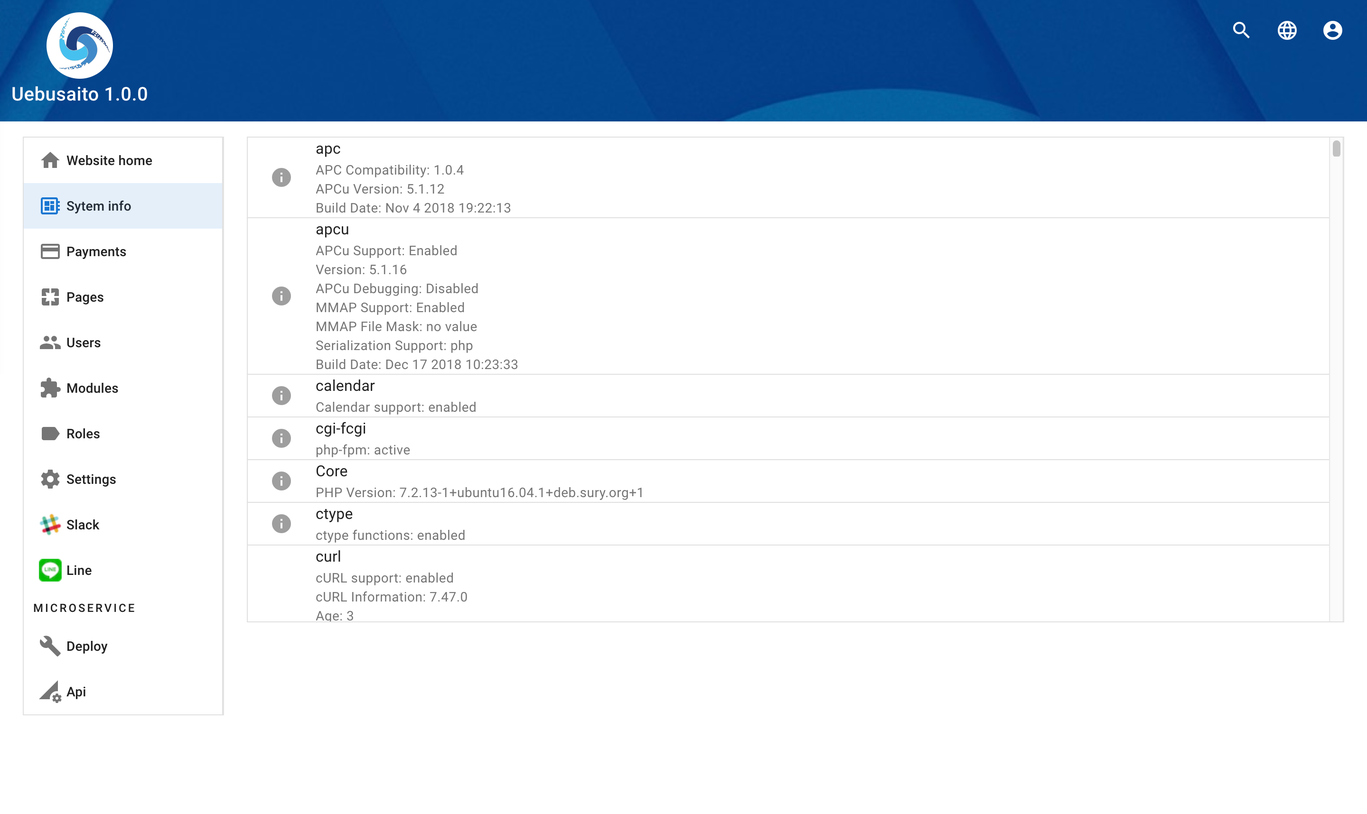
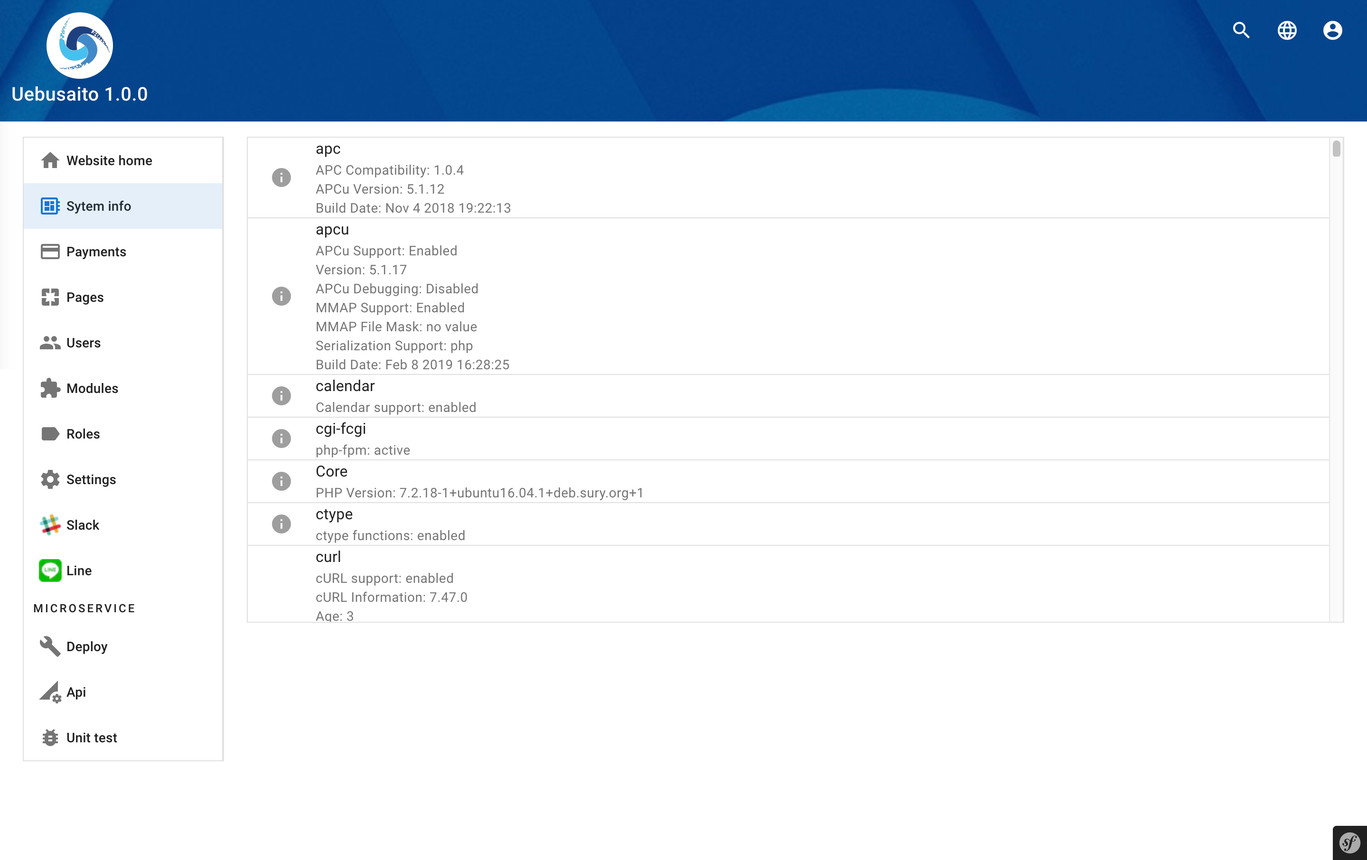
Multi tab logic and small fix.

diff --git a/symfony_fw/public/javascript/system/Utility.min.js b/symfony_fw/public/javascript/system/Utility.min.js
@@ -1,1 +1,1 @@
-var utility=new Utility;function Utility(){var p,e=this;function o(e,t){var n="";$.each($(e).find(".sort_elemet_data"),function(e,t){n+=$(t).attr("data-id")+","}),$(t).val(n)}e.getTouchMove=function(){return p},e.init=function(){p=!1},e.linkPreventDefault=function(){$("a[href^='#']").on("click","",function(e){e.preventDefault()})},e.mutationObserver=function(t,e,n){new MutationObserver(function(e){e.forEach(function(e){-1!==$.inArray(e.type,t)&&n()})}).observe(e,{attributes:!0,childList:!0,subtree:!0,characterData:!0})},e.checkMobile=function(e){var t,l,n=!1,i=navigator.userAgent.toLowerCase();return(/(android|ipad|iphone|bb\d+|meego).+mobile|avantgo|bada\/|blackberry|blazer|compal|elaine|fennec|hiptop|iemobile|ip(hone|od)|iris|kindle|lge |maemo|midp|mmp|mobile.+firefox|netfront|opera m(ob|in)i|palm( os)?|phone|p(ixi|re)\/|plucker|pocket|psp|series(4|6)0|symbian|treo|up\.(browser|link)|vodafone|wap|windows ce|xda|xiino/i.test(i)||/1207|6310|6590|3gso|4thp|50[1-6]i|770s|802s|a wa|abac|ac(er|oo|s\-)|ai(ko|rn)|al(av|ca|co)|amoi|an(ex|ny|yw)|aptu|ar(ch|go)|as(te|us)|attw|au(di|\-m|r |s )|avan|be(ck|ll|nq)|bi(lb|rd)|bl(ac|az)|br(e|v)w|bumb|bw\-(n|u)|c55\/|capi|ccwa|cdm\-|cell|chtm|cldc|cmd\-|co(mp|nd)|craw|da(it|ll|ng)|dbte|dc\-s|devi|dica|dmob|do(c|p)o|ds(12|\-d)|el(49|ai)|em(l2|ul)|er(ic|k0)|esl8|ez([4-7]0|os|wa|ze)|fetc|fly(\-|_)|g1 u|g560|gene|gf\-5|g\-mo|go(\.w|od)|gr(ad|un)|haie|hcit|hd\-(m|p|t)|hei\-|hi(pt|ta)|hp( i|ip)|hs\-c|ht(c(\-| |_|a|g|p|s|t)|tp)|hu(aw|tc)|i\-(20|go|ma)|i230|iac( |\-|\/)|ibro|idea|ig01|ikom|im1k|inno|ipaq|iris|ja(t|v)a|jbro|jemu|jigs|kddi|keji|kgt( |\/)|klon|kpt |kwc\-|kyo(c|k)|le(no|xi)|lg( g|\/(k|l|u)|50|54|\-[a-w])|libw|lynx|m1\-w|m3ga|m50\/|ma(te|ui|xo)|mc(01|21|ca)|m\-cr|me(rc|ri)|mi(o8|oa|ts)|mmef|mo(01|02|bi|de|do|t(\-| |o|v)|zz)|mt(50|p1|v )|mwbp|mywa|n10[0-2]|n20[2-3]|n30(0|2)|n50(0|2|5)|n7(0(0|1)|10)|ne((c|m)\-|on|tf|wf|wg|wt)|nok(6|i)|nzph|o2im|op(ti|wv)|oran|owg1|p800|pan(a|d|t)|pdxg|pg(13|\-([1-8]|c))|phil|pire|pl(ay|uc)|pn\-2|po(ck|rt|se)|prox|psio|pt\-g|qa\-a|qc(07|12|21|32|60|\-[2-7]|i\-)|qtek|r380|r600|raks|rim9|ro(ve|zo)|s55\/|sa(ge|ma|mm|ms|ny|va)|sc(01|h\-|oo|p\-)|sdk\/|se(c(\-|0|1)|47|mc|nd|ri)|sgh\-|shar|sie(\-|m)|sk\-0|sl(45|id)|sm(al|ar|b3|it|t5)|so(ft|ny)|sp(01|h\-|v\-|v )|sy(01|mb)|t2(18|50)|t6(00|10|18)|ta(gt|lk)|tcl\-|tdg\-|tel(i|m)|tim\-|t\-mo|to(pl|sh)|ts(70|m\-|m3|m5)|tx\-9|up(\.b|g1|si)|utst|v400|v750|veri|vi(rg|te)|vk(40|5[0-3]|\-v)|vm40|voda|vulc|vx(52|53|60|61|70|80|81|83|85|98)|w3c(\-| )|webc|whit|wi(g |nc|nw)|wmlb|wonu|x700|yas\-|your|zeto|zte\-/i.test(i.substr(0,4)))&&(n=!0)===e&&(t={min:{x:20,y:20},left:$.noop,right:$.noop,up:$.noop,down:$.noop},l="ontouchend"in document,$.fn.swipe=function(d){return d=$.extend({},t,d),this.each(function(){var a,r,t=$(this),c=!1;function s(){t.off("mousemove.swipe touchmove.swipe",n),a=null,c=!1}function n(e){if(c&&void 0!==e.touches){var t=l?e.touches[0].pageX:e.pageX,n=l?e.touches[0].pageY:e.pageY,i=a-t,o=r-n;Math.abs(i)>=(d.min.x||d.min)?(p=!0,s(),0<i?d.left():d.right()):Math.abs(o)>=(d.min.y||d.min)&&(p=!0,s(),0<o?d.up():d.down())}}p=!1,t.on("mousedown touchstart",function(e){e.preventDefault(),void 0!==e.touches&&(a=l?e.touches[0].pageX:e.pageX,r=l?e.touches[0].pageY:e.pageY,c=!0,t.on("mousemove.swipe touchmove.swipe",n))}),t.on("mouseup touchend",function(e){void 0!==e.touches&&(p=!1)})})}),n},e.checkWidthType=function(e){var t=void 0===e?window.setting.widthMobile:e;return!0===window.matchMedia("(max-width: "+t+"px)").matches?"mobile":"desktop"},e.postIframe=function(e,t,n){var i="iframe_commands_"+(new Date).getTime();$("<iframe>",{id:i,name:i,style:"display: none;"}).appendTo("body");var o="form_commands_"+ +(new Date).getTime();$("<form>",{id:o,target:i,action:e,method:t}).appendTo("body"),$.each(n,function(e,t){$("<input>",{type:"hidden",name:e,value:t}).appendTo("#"+o)}),$("#"+o).submit()},e.urlParameters=function(e){var t=window.location.href,n=t.indexOf("/"+e+"/"),i=t.substring(n,t.length).split("/");return i.shift(),i},e.removeElementAndResetIndex=function(e,t){return e.length=Object.keys(e).length,e.splice=[].splice,e.splice(t,1),delete e.length,delete e.splice,e},e.objectToArray=function(e){return $.map(e,function(e){return e})},e.isIntoView=function(e){if(0===$(e).length)return!1;var t={top:$(window).scrollTop(),left:$(window).scrollLeft()};t.right=t.left+$(window).width(),t.bottom=t.top+$(window).height();var n=$(e).offset();return n.right=n.left+$(e).outerWidth(),n.bottom=n.top+$(e).outerHeight(),!(t.right<n.left||t.left>n.right||t.bottom<n.top||t.top>n.bottom)},e.sortableElement=function(n,i){o(n,i),"desktop"===e.checkWidthType()?($(".sort_result").find(".mdc-chip").removeClass("mdc-chip--selected"),$(".sort_result").off("click"),$(n).find(".sort_list").sortable({placeholder:"sortable_placeholder",forcePlaceholderSize:!0,tolerance:"pointer",handle:".material-icons",cancel:".no_sortable",start:function(e,t){t.placeholder.height(t.item.height())},stop:function(e,t){t.placeholder.height(0),o(n,i)}}).disableSelection()):($(n).find(".sort_list").data("ui-sortable")&&$(n).find(".sort_list").sortable("destroy"),$(".sort_result").off("click").on("click",".mdc-chip",function(e){var t=!0===$(e.target).parent().hasClass("mdc-chip")?$(e.target).parent():$(e.target);if(!0===t.hasClass("mdc-chip")){if(!0===t.hasClass("mdc-chip--selected"))return void t.removeClass("mdc-chip--selected");$(".sort_result").find(".mdc-chip").removeClass("mdc-chip--selected"),!0===t.hasClass("mdc-chip--selected")?t.removeClass("mdc-chip--selected"):t.addClass("mdc-chip--selected")}}),$(n).find(".sort_control").find(".mdc-button").off("click").on("click","",function(e){var t=$(n).find(".sort_list .mdc-chip--selected");!0===$(e.target).find("i").hasClass("button_up")?t.parent().insertBefore(t.parent().prev()):!0===$(e.target).find("i").hasClass("button_down")&&t.parent().insertAfter(t.parent().next()),o(n,i)}))},e.wordTag=function(t,n){if(void 0!==$(n).val()){var i=$(n).val().split(",");i.pop();var o="";$.each(i,function(e,t){o+='<div class="mdc-chip">\n                    <i class="material-icons mdc-chip__icon mdc-chip__icon--leading">delete</i>\n                    <div class="mdc-chip__text wordTag_elemet_data" data-id="'+t+'">'+$(n+"_select").find("option").eq(t).text()+"</div>\n                </div>"}),$(t).find(".wordTag_result").html(o),$(n+"_select").change(function(e){-1===$.inArray($(e.target).val(),i)&&""!==$(e.target).val()&&($(t).find(".wordTag_result").append('<div class="mdc-chip">\n                            <i class="material-icons mdc-chip__icon mdc-chip__icon--leading">delete</i>\n                            <div class="mdc-chip__text wordTag_elemet_data" data-id="'+$(e.target).val()+'">'+$(e.target).find("option[value='"+$(e.target).val()+"']").text()+"</div>\n                        </div>"),i.push($(e.target).val()),$(n).val(i.join(",")+","))}),$(".wordTag_result").off("click").on("click",".material-icons",function(e){var t=$(e.target).next().attr("data-id");i=$.grep(i,function(e){return e!==t}),$(n).val(i.join(",")+","),$(e.target).parents(".mdc-chip").remove()})}},e.accordion=function(n){var e="";"button"===n?e=".button_accordion":"icon"===n&&(e=".icon_accordion"),$(".accordion_container").find(e).off("click").on("click","",function(){var e=$(this),t=$(this).next();$(".accordion_container").find(".accordion").not(t).prev().text(window.text.index_9),$(".accordion_container").find(".accordion").not(t).removeClass("accordion_active"),"button"===n?!1===t.hasClass("accordion_active")?(e.text(window.text.index_10),t.addClass("accordion_active")):(e.text(window.text.index_9),t.removeClass("accordion_active")):"icon"===n&&(!1===t.hasClass("accordion_active")?(e.text("arrow_drop_up"),t.addClass("accordion_active")):(e.text("arrow_drop_down"),t.removeClass("accordion_active"))),materialDesign.refresh()})},e.selectOnlyOneElement=function(e){$(e).on("click","",function(n){!0===$(n.target).is("input")&&$.each($(e).find("input"),function(e,t){$(t).not(n.target).prop("checked",!1)})})},e.fileNameFromSrc=function(e,t){var n=e.replace(/\\/g,"/");return n=n.substring(n.lastIndexOf("/")+1),t?n.replace(/[?#].+$/,""):n.split(".")[0]},e.imageError=function(e){e.on("error","",function(){$.each($(this),function(e,t){$(t).prop("src",window.url.root+"/images/templates/"+window.setting.template+"/error_404.png")})})},e.imageRefresh=function(e,t){if(""!==e){var n=$(e).prop("src"),i=n.split("?");i.length>t&&(n=i[0]+"?"+i[1]),$(e).prop("src",n+"?"+(new Date).getTime())}},e.goToAnchor=function(e){$("html, body").animate({scrollTop:$(e).offset().top},1e3)},e.menuRoot=function(){if($(".menu_root_container").find(".mdc-list-item").on("click","",function(e){!0===$(e.target).hasClass("parent_icon")&&e.preventDefault()}),$(".menu_root_container").off("click").on("click",".parent_icon",function(){"block"!==$(this).parent().next().css("display")?$(this).parent().next().show():$(this).parent().next().hide()}),-1===window.location.href.indexOf("control_panel")){var n=utility.urlParameters(window.session.languageTextCode);$(".menu_root_container").find(".target").removeClass("current"),$.each($(".menu_root_container").find(".target"),function(e,t){return-1!==$(t).prop("href").indexOf(n[1])?($(t).addClass("current"),!1):2===parseInt(n[1])&&0===e?($(t).addClass("current"),!1):void 0})}},e.bodyProgress=function(){$(document).on("readystatechange","",function(e){var n=new mdc.linearProgress.MDCLinearProgress.attachTo($("#body_progress").find(".mdc-linear-progress")[0]),i=new Array,o=0;"interactive"===$(this)[0].readyState&&($.each($(this).find("*"),function(e,t){i.push(t)}),$.each(i,function(e,t){o=e/i.length,n.progress=o})),.99<=o&&document.fonts.ready.then(function(){$("#body_progress").fadeOut("slow")})})},e.uploadFakeClick=function(){$(document).on("click",".material_upload button",function(){var e=$(this),t=e.parent().find("input"),n="";t.click(),t.on("change","",function(){void 0!==t[0].files[0]&&(n=t[0].files[0].name),e.parent().find("label").text(n)})})},e.serializeJson=function(e){var i={},t=e.serializeArray(),n=JSON.stringify(t),o=JSON.parse(n),a="";return $.each(o,function(e,t){$.each(t,function(e,t){if("name"===e){var n=t.substring(t.lastIndexOf("[")+1,t.lastIndexOf("]"));n=n.replace("_token","token"),a=n}else i[a]=t})}),i},e.unitFormat=function(e){var t="";if(0===e)t="0 Bytes";else{var n=new Array("Bytes","KB","MB","GB","TB","PB","EB","ZB","YB"),i=Math.floor(Math.log(e)/Math.log(1024));t=parseFloat((e/Math.pow(1024,i)).toFixed(2))+" "+n[i]}return t},e.padZero=function(e){return(e<10?"0":"")+e},e.replaceUrlParameter=function(e,t){var n=window.location.search,i=new RegExp("([?;&])"+e+"[^&;]*[;&]?"),o=n.replace(i,"$1").replace(/&$/,""),a=(2<o.length?o+"&":"?")+(t?e+"="+t:"");window.history.replaceState("","",window.location.pathname+a)}}
+var utility=new Utility;function Utility(){var p,e=this;function n(e,t){var o="";$.each($(e).find(".sort_elemet_data"),function(e,t){o+=$(t).attr("data-id")+","}),$(t).val(o)}e.getTouchMove=function(){return p},e.init=function(){p=!1},e.linkPreventDefault=function(){$("a[href^='#']").on("click","",function(e){e.preventDefault()})},e.mutationObserver=function(t,e,o){new MutationObserver(function(e){e.forEach(function(e){-1!==$.inArray(e.type,t)&&o()})}).observe(e,{attributes:!0,childList:!0,subtree:!0,characterData:!0})},e.checkMobile=function(e){var t,d,o=!1,i=navigator.userAgent.toLowerCase();return(/(android|ipad|iphone|bb\d+|meego).+mobile|avantgo|bada\/|blackberry|blazer|compal|elaine|fennec|hiptop|iemobile|ip(hone|od)|iris|kindle|lge |maemo|midp|mmp|mobile.+firefox|netfront|opera m(ob|in)i|palm( os)?|phone|p(ixi|re)\/|plucker|pocket|psp|series(4|6)0|symbian|treo|up\.(browser|link)|vodafone|wap|windows ce|xda|xiino/i.test(i)||/1207|6310|6590|3gso|4thp|50[1-6]i|770s|802s|a wa|abac|ac(er|oo|s\-)|ai(ko|rn)|al(av|ca|co)|amoi|an(ex|ny|yw)|aptu|ar(ch|go)|as(te|us)|attw|au(di|\-m|r |s )|avan|be(ck|ll|nq)|bi(lb|rd)|bl(ac|az)|br(e|v)w|bumb|bw\-(n|u)|c55\/|capi|ccwa|cdm\-|cell|chtm|cldc|cmd\-|co(mp|nd)|craw|da(it|ll|ng)|dbte|dc\-s|devi|dica|dmob|do(c|p)o|ds(12|\-d)|el(49|ai)|em(l2|ul)|er(ic|k0)|esl8|ez([4-7]0|os|wa|ze)|fetc|fly(\-|_)|g1 u|g560|gene|gf\-5|g\-mo|go(\.w|od)|gr(ad|un)|haie|hcit|hd\-(m|p|t)|hei\-|hi(pt|ta)|hp( i|ip)|hs\-c|ht(c(\-| |_|a|g|p|s|t)|tp)|hu(aw|tc)|i\-(20|go|ma)|i230|iac( |\-|\/)|ibro|idea|ig01|ikom|im1k|inno|ipaq|iris|ja(t|v)a|jbro|jemu|jigs|kddi|keji|kgt( |\/)|klon|kpt |kwc\-|kyo(c|k)|le(no|xi)|lg( g|\/(k|l|u)|50|54|\-[a-w])|libw|lynx|m1\-w|m3ga|m50\/|ma(te|ui|xo)|mc(01|21|ca)|m\-cr|me(rc|ri)|mi(o8|oa|ts)|mmef|mo(01|02|bi|de|do|t(\-| |o|v)|zz)|mt(50|p1|v )|mwbp|mywa|n10[0-2]|n20[2-3]|n30(0|2)|n50(0|2|5)|n7(0(0|1)|10)|ne((c|m)\-|on|tf|wf|wg|wt)|nok(6|i)|nzph|o2im|op(ti|wv)|oran|owg1|p800|pan(a|d|t)|pdxg|pg(13|\-([1-8]|c))|phil|pire|pl(ay|uc)|pn\-2|po(ck|rt|se)|prox|psio|pt\-g|qa\-a|qc(07|12|21|32|60|\-[2-7]|i\-)|qtek|r380|r600|raks|rim9|ro(ve|zo)|s55\/|sa(ge|ma|mm|ms|ny|va)|sc(01|h\-|oo|p\-)|sdk\/|se(c(\-|0|1)|47|mc|nd|ri)|sgh\-|shar|sie(\-|m)|sk\-0|sl(45|id)|sm(al|ar|b3|it|t5)|so(ft|ny)|sp(01|h\-|v\-|v )|sy(01|mb)|t2(18|50)|t6(00|10|18)|ta(gt|lk)|tcl\-|tdg\-|tel(i|m)|tim\-|t\-mo|to(pl|sh)|ts(70|m\-|m3|m5)|tx\-9|up(\.b|g1|si)|utst|v400|v750|veri|vi(rg|te)|vk(40|5[0-3]|\-v)|vm40|voda|vulc|vx(52|53|60|61|70|80|81|83|85|98)|w3c(\-| )|webc|whit|wi(g |nc|nw)|wmlb|wonu|x700|yas\-|your|zeto|zte\-/i.test(i.substr(0,4)))&&(o=!0)===e&&(t={min:{x:20,y:20},left:$.noop,right:$.noop,up:$.noop,down:$.noop},d="ontouchend"in document,$.fn.swipe=function(l){return l=$.extend({},t,l),this.each(function(){var a,r,t=$(this),c=!1;function s(){t.off("mousemove.swipe touchmove.swipe",o),a=null,c=!1}function o(e){if(c&&void 0!==e.touches){var t=d?e.touches[0].pageX:e.pageX,o=d?e.touches[0].pageY:e.pageY,i=a-t,n=r-o;Math.abs(i)>=(l.min.x||l.min)?(p=!0,s(),0<i?l.left():l.right()):Math.abs(n)>=(l.min.y||l.min)&&(p=!0,s(),0<n?l.up():l.down())}}p=!1,t.on("mousedown touchstart",function(e){e.preventDefault(),void 0!==e.touches&&(a=d?e.touches[0].pageX:e.pageX,r=d?e.touches[0].pageY:e.pageY,c=!0,t.on("mousemove.swipe touchmove.swipe",o))}),t.on("mouseup touchend",function(e){void 0!==e.touches&&(p=!1)})})}),o},e.checkWidthType=function(e){var t=void 0===e?window.setting.widthMobile:e;return!0===window.matchMedia("(max-width: "+t+"px)").matches?"mobile":"desktop"},e.postIframe=function(e,t,o){var i="iframe_commands_"+(new Date).getTime();$("<iframe>",{id:i,name:i,style:"display: none;"}).appendTo("body");var n="form_commands_"+ +(new Date).getTime();$("<form>",{id:n,target:i,action:e,method:t}).appendTo("body"),$.each(o,function(e,t){$("<input>",{type:"hidden",name:e,value:t}).appendTo("#"+n)}),$("#"+n).submit()},e.urlParameters=function(e){var t=window.location.href,o=t.indexOf("/"+e+"/"),i=t.substring(o,t.length).split("/");return i.shift(),i},e.removeElementAndResetIndex=function(e,t){return e.length=Object.keys(e).length,e.splice=[].splice,e.splice(t,1),delete e.length,delete e.splice,e},e.objectToArray=function(e){return $.map(e,function(e){return e})},e.isIntoView=function(e){if(0===$(e).length)return!1;var t={top:$(window).scrollTop(),left:$(window).scrollLeft()};t.right=t.left+$(window).width(),t.bottom=t.top+$(window).height();var o=$(e).offset();return o.right=o.left+$(e).outerWidth(),o.bottom=o.top+$(e).outerHeight(),!(t.right<o.left||t.left>o.right||t.bottom<o.top||t.top>o.bottom)},e.sortableElement=function(o,i){n(o,i),"desktop"===utility.checkWidthType()?($(".sort_result").find(".mdc-chip").removeClass("mdc-chip--selected"),$(".sort_result").off("click"),$(o).find(".sort_list").sortable({placeholder:"sortable_placeholder",forcePlaceholderSize:!0,tolerance:"pointer",handle:".material-icons",cancel:".no_sortable",start:function(e,t){t.placeholder.height(t.item.height())},stop:function(e,t){t.placeholder.height(0),n(o,i)}}).disableSelection()):($(o).find(".sort_list").data("ui-sortable")&&$(o).find(".sort_list").sortable("destroy"),$(".sort_result").off("click").on("click",".mdc-chip",function(e){var t=!0===$(e.target).parent().hasClass("mdc-chip")?$(e.target).parent():$(e.target);if(!0===t.hasClass("mdc-chip")){if(!0===t.hasClass("mdc-chip--selected"))return void t.removeClass("mdc-chip--selected");$(".sort_result").find(".mdc-chip").removeClass("mdc-chip--selected"),!0===t.hasClass("mdc-chip--selected")?t.removeClass("mdc-chip--selected"):t.addClass("mdc-chip--selected")}}),$(o).find(".sort_control").find(".mdc-button").off("click").on("click","",function(e){var t=$(o).find(".sort_list .mdc-chip--selected");!0===$(e.target).find("i").hasClass("button_up")?t.parent().insertBefore(t.parent().prev()):!0===$(e.target).find("i").hasClass("button_down")&&t.parent().insertAfter(t.parent().next()),n(o,i)}))},e.wordTag=function(t,o){if(void 0!==$(o).val()){var i=$(o).val().split(",");i.pop();var n="";$.each(i,function(e,t){n+='<div class="mdc-chip">\n                    <i class="material-icons mdc-chip__icon mdc-chip__icon--leading">delete</i>\n                    <div class="mdc-chip__text wordTag_elemet_data" data-id="'+t+'">'+$(o+"_select").find("option").eq(t).text()+"</div>\n                </div>"}),$(t).find(".wordTag_result").html(n),$(o+"_select").change(function(e){-1===$.inArray($(e.target).val(),i)&&""!==$(e.target).val()&&($(t).find(".wordTag_result").append('<div class="mdc-chip">\n                            <i class="material-icons mdc-chip__icon mdc-chip__icon--leading">delete</i>\n                            <div class="mdc-chip__text wordTag_elemet_data" data-id="'+$(e.target).val()+'">'+$(e.target).find("option[value='"+$(e.target).val()+"']").text()+"</div>\n                        </div>"),i.push($(e.target).val()),$(o).val(i.join(",")+","))}),$(".wordTag_result").off("click").on("click",".material-icons",function(e){var t=$(e.target).next().attr("data-id");i=$.grep(i,function(e){return e!==t}),$(o).val(i.join(",")+","),$(e.target).parents(".mdc-chip").remove()})}},e.accordion=function(o){var e="";"button"===o?e=".button_accordion":"icon"===o&&(e=".icon_accordion"),$(".accordion_container").find(e).off("click").on("click","",function(){var e=$(this),t=$(this).next();$(".accordion_container").find(".accordion").not(t).prev().text(window.text.index_9),$(".accordion_container").find(".accordion").not(t).removeClass("accordion_active"),"button"===o?!1===t.hasClass("accordion_active")?(e.text(window.text.index_10),t.addClass("accordion_active")):(e.text(window.text.index_9),t.removeClass("accordion_active")):"icon"===o&&(!1===t.hasClass("accordion_active")?(e.text("arrow_drop_up"),t.addClass("accordion_active")):(e.text("arrow_drop_down"),t.removeClass("accordion_active"))),materialDesign.refresh()})},e.selectOnlyOneElement=function(e){$(e).on("click","",function(o){!0===$(o.target).is("input")&&$.each($(e).find("input"),function(e,t){$(t).not(o.target).prop("checked",!1)})})},e.fileNameFromSrc=function(e,t){var o=e.replace(/\\/g,"/");return o=o.substring(o.lastIndexOf("/")+1),t?o.replace(/[?#].+$/,""):o.split(".")[0]},e.imageError=function(e){e.on("error","",function(){$.each($(this),function(e,t){$(t).prop("src",window.url.root+"/images/templates/"+window.setting.template+"/error_404.png")})})},e.imageRefresh=function(e,t){if(""!==e){var o=$(e).prop("src"),i=o.split("?");i.length>t&&(o=i[0]+"?"+i[1]),$(e).prop("src",o+"?"+(new Date).getTime())}},e.goToAnchor=function(e){$("html, body").animate({scrollTop:$(e).offset().top},1e3)},e.menuRoot=function(){if($(".menu_root_container").find(".mdc-list-item").on("click","",function(e){!0===$(e.target).hasClass("parent_icon")&&e.preventDefault()}),$(".menu_root_container").off("click").on("click",".parent_icon",function(){"block"!==$(this).parent().next().css("display")?$(this).parent().next().show():$(this).parent().next().hide()}),-1===window.location.href.indexOf("control_panel")){var o=utility.urlParameters(window.session.languageTextCode);$(".menu_root_container").find(".target").removeClass("current"),$.each($(".menu_root_container").find(".target"),function(e,t){return-1!==$(t).prop("href").indexOf(o[1])?($(t).addClass("current"),!1):2===parseInt(o[1])&&0===e?($(t).addClass("current"),!1):void 0})}},e.bodyProgress=function(){$(document).on("readystatechange","",function(e){var o=new mdc.linearProgress.MDCLinearProgress.attachTo($("#body_progress").find(".mdc-linear-progress")[0]),i=new Array,n=0;"interactive"===$(this)[0].readyState&&($.each($(this).find("*"),function(e,t){i.push(t)}),$.each(i,function(e,t){n=e/i.length,o.progress=n})),.99<=n&&document.fonts.ready.then(function(){$("#body_progress").fadeOut("slow")})})},e.uploadFakeClick=function(){$(document).on("click",".material_upload button",function(){var e=$(this),t=e.parent().find("input"),o="";t.click(),t.on("change","",function(){void 0!==t[0].files[0]&&(o=t[0].files[0].name),e.parent().find("label").text(o)})})},e.serializeJson=function(e){var i={},t=e.serializeArray(),o=JSON.stringify(t),n=JSON.parse(o),a="";return $.each(n,function(e,t){$.each(t,function(e,t){if("name"===e){var o=t.substring(t.lastIndexOf("[")+1,t.lastIndexOf("]"));o=o.replace("_token","token"),a=o}else i[a]=t})}),i},e.unitFormat=function(e){var t="";if(0===e)t="0 Bytes";else{var o=new Array("Bytes","KB","MB","GB","TB","PB","EB","ZB","YB"),i=Math.floor(Math.log(e)/Math.log(1024));t=parseFloat((e/Math.pow(1024,i)).toFixed(2))+" "+o[i]}return t},e.padZero=function(e){return(e<10?"0":"")+e},e.replaceUrlParameter=function(e,t){var o=window.location.search,i=new RegExp("([?;&])"+e+"[^&;]*[;&]?"),n=o.replace(i,"$1").replace(/&$/,""),a=(2<n.length?n+"&":"?")+(t?e+"="+t:"");window.history.replaceState("","",window.location.pathname+a)},e.createCookie=function(e,t,o,i){var n=!0===i?"Secure;":"";document.cookie=e+"="+JSON.stringify(t)+";expires="+o+";path=/;domain=."+window.location.host.toString()+";"+n},e.readCookie=function(e){var t=document.cookie.match(new RegExp(e+"=([^;]+)"));return t&&(t=JSON.parse(t[1])),t},e.removeCookie=function(e){null!==utility.readCookie(e)&&(document.cookie=e+"=;expires=Thu, 01-Jan-1970 00:00:01 GMT;path=/;domain=."+window.location.host.toString()+";")},e.blockMultiTab=function(e){!0===e&&(null===utility.readCookie("multiTabBlock")?(utility.createCookie("multiTabBlock",{active:!0},"Fri, 31 Dec 9999 23:59:59 GMT",!0,!0),$(window).on("unload","",function(e){utility.removeCookie("multiTabBlock")})):$("body").html('<h1 style="margin: 10px; text-align: center;">'+window.text.index_11+"</h1>"))}}

diff --git a/symfony_fw/public/javascript/system/control_panel/MicroserviceDeploy.min.js b/symfony_fw/public/javascript/system/control_panel/MicroserviceDeploy.min.js
@@ -1,1 +1,1 @@
-var controlPanelMicroserviceDeploy=new ControlPanelMicroserviceDeploy;function ControlPanelMicroserviceDeploy(){var c=!1,t=-1;function n(e,o){ajax.reply(e,o),!1===$.isEmptyObject(e.response)&&void 0!==e.response.render&&(c=!0,$("#cp_microservice_deploy_select_result").html(e.response.render),materialDesign.refresh(),$("#form_cp_microservice_deploy_profile").on("submit","",function(o){o.preventDefault(),ajax.send(!0,$(this).prop("action"),$(this).prop("method"),new FormData(this),"json",!1,!1,!1,null,function(e){ajax.reply(e,"#"+o.currentTarget.id),void 0!==e.response.messages.success&&($("#cp_microservice_deploy_select_result").html(""),$("#cp_microservice_deploy_select_result_desktop .refresh").click())},null,null)}),$("#cp_microservice_deploy_delete").on("click","",function(){i(null)}))}function i(e){popupEasy.create(window.text.index_5,window.textMicroserviceDeploy.label_1,function(){ajax.send(!0,window.url.cpMicroserviceDeployDelete,"post",{event:"delete",id:e,token:window.session.token},"json",!1,!0,"application/x-www-form-urlencoded; charset=UTF-8",null,function(c){ajax.reply(c,""),void 0!==c.response.messages.success&&($.each($("#cp_microservice_deploy_select_result_desktop").find("table .id_column"),function(e,o){c.response.values.id===$.trim($(o).text())&&$(o).parents("tr").remove()}),$("#form_microservice_deploy_select_id").find("option[value='"+c.response.values.id+"']").remove(),$("#cp_microservice_deploy_select_result").html(""),$("#cp_microservice_deploy_select_result_desktop").find(".refresh").click())},null,null)})}this.init=function(){var o;(o=new TableAndPagination).init(),o.setButtonsStatus("show"),o.create(window.url.cpMicroserviceDeploySelect,"#cp_microservice_deploy_select_result_desktop",!0),o.search(),o.pagination(),o.sort(),$(document).on("click","#cp_microservice_deploy_select_result_desktop .refresh",function(){ajax.send(!0,window.url.cpMicroserviceDeploySelect,"post",{event:"refresh",token:window.session.token},"json",!1,!0,"application/x-www-form-urlencoded; charset=UTF-8",null,function(e){ajax.reply(e,""),o.populate(e)},null,null)}),$(document).on("click","#cp_microservice_deploy_select_result_desktop .delete_all",function(){popupEasy.create(window.text.index_5,window.textMicroserviceDeploy.label_2,function(){ajax.send(!0,window.url.cpMicroserviceDeployDelete,"post",{event:"deleteAll",token:window.session.token},"json",!1,!0,"application/x-www-form-urlencoded; charset=UTF-8",null,function(e){ajax.reply(e,""),$.each($("#cp_microservice_deploy_select_result_desktop").find("table .id_column"),function(e,o){$(o).parents("tr").remove()}),$("#cp_microservice_deploy_select_result").html("")},null,null)})}),$(document).on("click","#cp_microservice_deploy_select_result_desktop .cp_module_delete",function(){var e=$.trim($(this).parents("tr").find(".id_column").text());i(e)}),$(document).on("click","#cp_microservice_deploy_select_button_desktop",function(o){var e=$.trim($(this).parent().find(".checkbox_column input:checked").parents("tr").find(".id_column").text());ajax.send(!0,window.url.cpMicroserviceDeployProfile,"post",{event:"result",id:e,token:window.session.token},"json",!1,!0,"application/x-www-form-urlencoded; charset=UTF-8",function(){$("#cp_microservice_deploy_select_result").html("")},function(e){n(e,"#"+o.currentTarget.id)},null,null)}),$(document).on("submit","#form_cp_microservice_deploy_select_mobile",function(o){o.preventDefault(),ajax.send(!0,$(this).prop("action"),$(this).prop("method"),utility.serializeJson($(this)),"json",!1,!0,"application/x-www-form-urlencoded; charset=UTF-8",function(){$("#cp_microservice_deploy_select_result").html("")},function(e){n(e,"#"+o.currentTarget.id)},null,null)}),$("#form_cp_microservice_deploy_render").on("submit","",function(o){o.preventDefault(),ajax.send(!0,$(this).prop("action"),$(this).prop("method"),$(this).serialize(),"json",!1,!0,"application/x-www-form-urlencoded; charset=UTF-8",null,function(e){ajax.reply(e,"#"+o.currentTarget.id),void 0!==e.response.values&&($("#cp_microservice_deploy_render_result").html(e.response.values.renderHtml),$("#cp_microservice_deploy_ssh_connection_result").html(""),materialDesign.refresh(),$(".git_execute").on("click","",function(){var e=$("#form_microservice_deploy_select_id").val(),o=$(this).attr("data-action"),c=$("#cp_microservice_deploy_render_result").find("input[name='branchName']");popupEasy.create(window.text.index_5,window.textMicroserviceDeploy.label_3,function(){ajax.send(!0,window.url.cpMicroserviceDeployExecute,"post",{event:"execute",id:e,action:o,branchName:c.val(),token:window.session.token},"json",!1,!0,"application/x-www-form-urlencoded; charset=UTF-8",function(){"pull"!==o&&(c.val(""),c.focus()),$("#cp_microservice_deploy_ssh_connection_result").html("")},function(e){ajax.reply(e,""),void 0!==e.response.values&&$("#cp_microservice_deploy_ssh_connection_result").html(e.response.values.sshConnection)},null,null)})}))},null,null)}),$("#form_cp_microservice_deploy_create").on("submit","",function(o){o.preventDefault(),ajax.send(!0,$(this).prop("action"),$(this).prop("method"),new FormData(this),"json",!1,!1,!1,null,function(e){ajax.reply(e,"#"+o.currentTarget.id)},null,null)}),$("#form_microservice_deploy_select_id").on("change","",function(){$("#cp_microservice_deploy_render_result").html("")})},this.changeView=function(){if("mobile"===utility.checkWidthType()){if(!0===c&&(t=$("#cp_microservice_deploy_select_mobile").find("select option:selected").val(),c=!1),0<=t){$("#cp_microservice_deploy_select_result_desktop").find(".checkbox_column input[type='checkbox']").prop("checked",!1);var e=$("#cp_microservice_deploy_select_result_desktop").find(".checkbox_column input[type='checkbox']").parents("tr").find(".id_column");$.each(e,function(e,o){$.trim($(o).text())===String(t)&&$(o).parents("tr").find(".checkbox_column input").prop("checked",!0)})}}else!0===c&&(t=$.trim($("#cp_microservice_deploy_select_result_desktop").find(".checkbox_column input[type='checkbox']:checked").parents("tr").find(".id_column").text()),c=!1),0<=t&&$("#cp_microservice_deploy_select_mobile").find("select option[value='"+t+"']").prop("selected",!0)}}
+var controlPanelMicroserviceDeploy=new ControlPanelMicroserviceDeploy;function ControlPanelMicroserviceDeploy(){var c=!1,t=-1;function n(e,o){ajax.reply(e,o),!1===$.isEmptyObject(e.response)&&void 0!==e.response.render&&(c=!0,$("#cp_microservice_deploy_select_result").html(e.response.render),materialDesign.refresh(),$("#form_cp_microservice_deploy_profile").on("submit","",function(o){o.preventDefault(),ajax.send(!0,$(this).prop("action"),$(this).prop("method"),new FormData(this),"json",!1,!1,!1,null,function(e){ajax.reply(e,"#"+o.currentTarget.id),void 0!==e.response.messages.success&&($("#cp_microservice_deploy_select_result").html(""),$("#cp_microservice_deploy_select_result_desktop .refresh").click())},null,null)}),$("#cp_microservice_deploy_delete").on("click","",function(){i(null)}))}function i(e){popupEasy.create(window.text.index_5,window.textMicroserviceDeploy.label_1,function(){ajax.send(!0,window.url.cpMicroserviceDeployDelete,"post",{event:"delete",id:e,token:window.session.token},"json",!1,!0,"application/x-www-form-urlencoded; charset=UTF-8",null,function(c){ajax.reply(c,""),void 0!==c.response.messages.success&&($.each($("#cp_microservice_deploy_select_result_desktop").find("table .id_column"),function(e,o){c.response.values.id===$.trim($(o).text())&&$(o).parents("tr").remove()}),$("#form_microservice_deploy_select_id").find("option[value='"+c.response.values.id+"']").remove(),$("#cp_microservice_deploy_select_result").html(""),$("#cp_microservice_deploy_select_result_desktop").find(".refresh").click())},null,null)})}this.init=function(){var o;(o=new TableAndPagination).init(),o.setButtonsStatus("show"),o.create(window.url.cpMicroserviceDeploySelect,"#cp_microservice_deploy_select_result_desktop",!0),o.search(),o.pagination(),o.sort(),$(document).on("click","#cp_microservice_deploy_select_result_desktop .refresh",function(){ajax.send(!0,window.url.cpMicroserviceDeploySelect,"post",{event:"refresh",token:window.session.token},"json",!1,!0,"application/x-www-form-urlencoded; charset=UTF-8",null,function(e){ajax.reply(e,""),o.populate(e)},null,null)}),$(document).on("click","#cp_microservice_deploy_select_result_desktop .delete_all",function(){popupEasy.create(window.text.index_5,window.textMicroserviceDeploy.label_2,function(){ajax.send(!0,window.url.cpMicroserviceDeployDelete,"post",{event:"deleteAll",token:window.session.token},"json",!1,!0,"application/x-www-form-urlencoded; charset=UTF-8",null,function(e){ajax.reply(e,""),$.each($("#cp_microservice_deploy_select_result_desktop").find("table .id_column"),function(e,o){$(o).parents("tr").remove()}),$("#cp_microservice_deploy_select_result").html("")},null,null)})}),$(document).on("click","#cp_microservice_deploy_select_result_desktop .cp_module_delete",function(){var e=$.trim($(this).parents("tr").find(".id_column").text());i(e)}),$(document).on("click","#cp_microservice_deploy_select_button_desktop",function(o){var e=$.trim($(this).parent().find(".checkbox_column input:checked").parents("tr").find(".id_column").text());ajax.send(!0,window.url.cpMicroserviceDeployProfile,"post",{event:"result",id:e,token:window.session.token},"json",!1,!0,"application/x-www-form-urlencoded; charset=UTF-8",function(){$("#cp_microservice_deploy_select_result").html("")},function(e){n(e,"#"+o.currentTarget.id)},null,null)}),$(document).on("submit","#form_cp_microservice_deploy_select_mobile",function(o){o.preventDefault(),ajax.send(!0,$(this).prop("action"),$(this).prop("method"),utility.serializeJson($(this)),"json",!1,!0,"application/x-www-form-urlencoded; charset=UTF-8",function(){$("#cp_microservice_deploy_select_result").html("")},function(e){n(e,"#"+o.currentTarget.id)},null,null)}),$("#form_cp_microservice_deploy_render").on("submit","",function(o){o.preventDefault(),ajax.send(!0,$(this).prop("action"),$(this).prop("method"),$(this).serialize(),"json",!1,!0,"application/x-www-form-urlencoded; charset=UTF-8",null,function(e){ajax.reply(e,"#"+o.currentTarget.id),void 0!==e.response.values&&($("#cp_microservice_deploy_render_result").html(e.response.values.renderHtml),$("#cp_microservice_deploy_ssh_connection_result").html(""),materialDesign.refresh(),$(".git_execute").on("click","",function(){var e=$("#form_microservice_deploy_select_id").val(),o=$(this).attr("data-action"),c=$("#cp_microservice_deploy_render_result").find("input[name='branchName']");popupEasy.create(window.text.index_5,window.textMicroserviceDeploy.label_3,function(){ajax.send(!0,window.url.cpMicroserviceDeployExecute,"post",{event:"execute",id:e,action:o,branchName:c.val(),token:window.session.token},"json",!1,!0,"application/x-www-form-urlencoded; charset=UTF-8",function(){"pull"!==o&&(c.val(""),c.focus()),$("#cp_microservice_deploy_ssh_connection_result").html("")},function(e){ajax.reply(e,""),void 0!==e.response.values&&$("#cp_microservice_deploy_ssh_connection_result").html(e.response.values.sshConnection)},null,null)})}))},null,null)}),$("#form_cp_microservice_deploy_create").on("submit","",function(o){o.preventDefault(),ajax.send(!0,$(this).prop("action"),$(this).prop("method"),new FormData(this),"json",!1,!1,!1,null,function(e){ajax.reply(e,"#"+o.currentTarget.id)},null,null)}),$("#form_microservice_deploy_select_id").on("change","",function(){$("#cp_microservice_deploy_render_result").html(""),$("#cp_microservice_deploy_ssh_connection_result").html("")})},this.changeView=function(){if("mobile"===utility.checkWidthType()){if(!0===c&&(t=$("#cp_microservice_deploy_select_mobile").find("select option:selected").val(),c=!1),0<=t){$("#cp_microservice_deploy_select_result_desktop").find(".checkbox_column input[type='checkbox']").prop("checked",!1);var e=$("#cp_microservice_deploy_select_result_desktop").find(".checkbox_column input[type='checkbox']").parents("tr").find(".id_column");$.each(e,function(e,o){$.trim($(o).text())===String(t)&&$(o).parents("tr").find(".checkbox_column input").prop("checked",!0)})}}else!0===c&&(t=$.trim($("#cp_microservice_deploy_select_result_desktop").find(".checkbox_column input[type='checkbox']:checked").parents("tr").find(".id_column").text()),c=!1),0<=t&&$("#cp_microservice_deploy_select_mobile").find("select option[value='"+t+"']").prop("selected",!0)}}

diff --git a/symfony_fw/public/javascript/system/Index.min.js b/symfony_fw/public/javascript/system/Index.min.js
@@ -1,1 +1,1 @@
-utility.init(),utility.bodyProgress(),$(document).ready(function(){utility.checkMobile(!0),utility.linkPreventDefault(),utility.accordion("button"),utility.menuRoot(),utility.uploadFakeClick(),materialDesign.init(),materialDesign.button(),materialDesign.fabButton(),materialDesign.iconButton(),materialDesign.chip(),materialDesign.dialog(),materialDesign.drawer(),materialDesign.checkbox(),materialDesign.radioButton(),materialDesign.select(),materialDesign.slider(),materialDesign.textField(),materialDesign.linearProgress(".linear_progress_b",.5,1,.75),materialDesign.linearProgress(".linear_progress_c",.5,1),materialDesign.list(),materialDesign.menu(),materialDesign.snackbar(),materialDesign.tabBar(),materialDesign.fix(),widgetSearch.init(),widgetSearch.create(),widgetSearch.changeView(),widgetDatePicker.init(),widgetDatePicker.setLanguage("en"),widgetDatePicker.setInputFill(".widget_datePicker_input"),widgetDatePicker.create(),flashBag.init(),flashBag.setElement(materialDesign.getSnackbarMdc()),flashBag.sessionActivity(),search.init(),captcha.init(),language.init(),authentication.init(),registration.init(),recoverPassword.init(),pageComment.init(),menuUser.init(),$(window).resize(function(){materialDesign.refresh(),materialDesign.fix(),widgetSearch.changeView()})});
+utility.init(),utility.bodyProgress(),$(document).ready(function(){utility.checkMobile(!0),utility.linkPreventDefault(),utility.accordion("button"),utility.menuRoot(),utility.uploadFakeClick(),utility.blockMultiTab(!0),materialDesign.init(),materialDesign.button(),materialDesign.fabButton(),materialDesign.iconButton(),materialDesign.chip(),materialDesign.dialog(),materialDesign.drawer(),materialDesign.checkbox(),materialDesign.radioButton(),materialDesign.select(),materialDesign.slider(),materialDesign.textField(),materialDesign.linearProgress(".linear_progress_b",.5,1,.75),materialDesign.linearProgress(".linear_progress_c",.5,1),materialDesign.list(),materialDesign.menu(),materialDesign.snackbar(),materialDesign.tabBar(),materialDesign.fix(),widgetSearch.init(),widgetSearch.create(),widgetSearch.changeView(),widgetDatePicker.init(),widgetDatePicker.setLanguage("en"),widgetDatePicker.setInputFill(".widget_datePicker_input"),widgetDatePicker.create(),flashBag.init(),flashBag.setElement(materialDesign.getSnackbarMdc()),flashBag.sessionActivity(),search.init(),captcha.init(),language.init(),authentication.init(),registration.init(),recoverPassword.init(),pageComment.init(),menuUser.init(),$(window).resize(function(){materialDesign.refresh(),materialDesign.fix(),widgetSearch.changeView()})});

diff --git a/symfony_fw/public/javascript/system/Utility.js b/symfony_fw/public/javascript/system/Utility.js
@@ -145,7 +145,7 @@ function Utility() {
     self.sortableElement = function(tagParent, tagInput) {
         populateSortableInput(tagParent, tagInput);
         
-        if (self.checkWidthType() === "desktop") {
+        if (utility.checkWidthType() === "desktop") {
             $(".sort_result").find(".mdc-chip").removeClass("mdc-chip--selected");
             $(".sort_result").off("click");
             
@@ -466,6 +466,39 @@ function Utility() {
         var result = (query.length > 2 ? query + "&" : "?") + (value ? name + "=" + value : "");
         
         window.history.replaceState("", "", window.location.pathname + result);
+    };
+    
+    self.createCookie = function(name, values, expire, secure) {
+        var secureValue = secure === true ? "Secure;" : "";
+        
+        document.cookie = name + "=" + JSON.stringify(values) + ";expires=" + expire + ";path=/;domain=." + window.location.host.toString() + ";" + secureValue;
+    };
+    
+    self.readCookie = function(name) {
+        var result = document.cookie.match(new RegExp(name + "=([^;]+)"));
+        
+        result && (result = JSON.parse(result[1]));
+        
+        return result;
+    };
+    
+    self.removeCookie = function(name) {
+        if (utility.readCookie(name) !== null)
+            document.cookie = name + "=;" + "expires=Thu, 01-Jan-1970 00:00:01 GMT;path=/;domain=." + window.location.host.toString() + ";";
+    };
+    
+    self.blockMultiTab = function(active) {
+        if (active === true) {
+            if (utility.readCookie("multiTabBlock") === null) {
+                utility.createCookie("multiTabBlock", {"active":true}, "Fri, 31 Dec 9999 23:59:59 GMT", true, true);
+                
+                $(window).on("unload", "", function(event) {
+                    utility.removeCookie("multiTabBlock");
+                });
+            }
+            else
+                $("body").html("<h1 style=\"margin: 10px; text-align: center;\">" + window.text.index_11 + "</h1>");
+        }
     };
     
     // Functions private

diff --git a/symfony_fw/public/javascript/system/control_panel/MicroserviceDeploy.js b/symfony_fw/public/javascript/system/control_panel/MicroserviceDeploy.js
@@ -70,6 +70,7 @@ function ControlPanelMicroserviceDeploy() {
         
         $("#form_microservice_deploy_select_id").on("change", "", function() {
             $("#cp_microservice_deploy_render_result").html("");
+            $("#cp_microservice_deploy_ssh_connection_result").html("");
         });
     };
     

diff --git a/symfony_fw/public/javascript/system/Index.js b/symfony_fw/public/javascript/system/Index.js
@@ -9,6 +9,7 @@ $(document).ready(function() {
     utility.accordion("button");
     utility.menuRoot();
     utility.uploadFakeClick();
+    utility.blockMultiTab(true);
     
     // Material design
     materialDesign.init();

diff --git a/README.md b/README.md
@@ -3,21 +3,22 @@ Uebusaito
 
 Framework for create secure fast and dynamic website.
 
-Based on Symfony elements, you can create all type of websites (Personal, company, eCommerce...).
+You can create all type of websites (Personal, company, eCommerce, ...).
 
 | INFO |
 |:---|
 | Cross browser and responsive (Chrome, Firefox, Edge, Opera, Safari) |
-| Cross platform (Windows, Linux, Mac, Android, Ios ) |
+| Cross platform (Windows, Linux, Mac, Android, Ios) |
 | Dynamic multi language |
 | Login, registration, recover password and profile |
 | Multiple roles system |
 | Search in website |
+| Multi tab block |
 | Credit and paypal payment |
 | Upload file chunk system |
 | Wysiwyg page creation (create page without code) |
 | Page comments |
-| Microservice (Deploy and api) |
+| Microservice (Deploy, api and unit test) |
 | Integration with: Slack, line |
 | Extend with module system |
 
@@ -33,11 +34,18 @@ Based on Symfony elements, you can create all type of websites (Personal, compan
 | Slack |
 | Line |
 | Microservice |
+| - Deploy |
+| - Api |
+| - Unit test |
 
 | IMAGES |
 |:---|
 <img src="screenshots/1.png" width="200" alt="1.png"/>
 <img src="screenshots/2.png" width="200" alt="2.png"/>
+
+| LIBRARY |
+|:---|
+Symfony - https://symfony.com/
 
 ## Instructions:
 1) Copy files on your server.
@@ -93,9 +101,5 @@ Based on Symfony elements, you can create all type of websites (Personal, compan
         sudo -u www-data php bin/console cache:clear --no-warmup --env=dev
 
 7) For admin login use <b>"cimo, Password1"</b>.
-
-| LIBRARY |
-|:---|
-Symfony https://symfony.com/
 
 <b>By CIMO - https://www.reinventsoftware.org</b>
